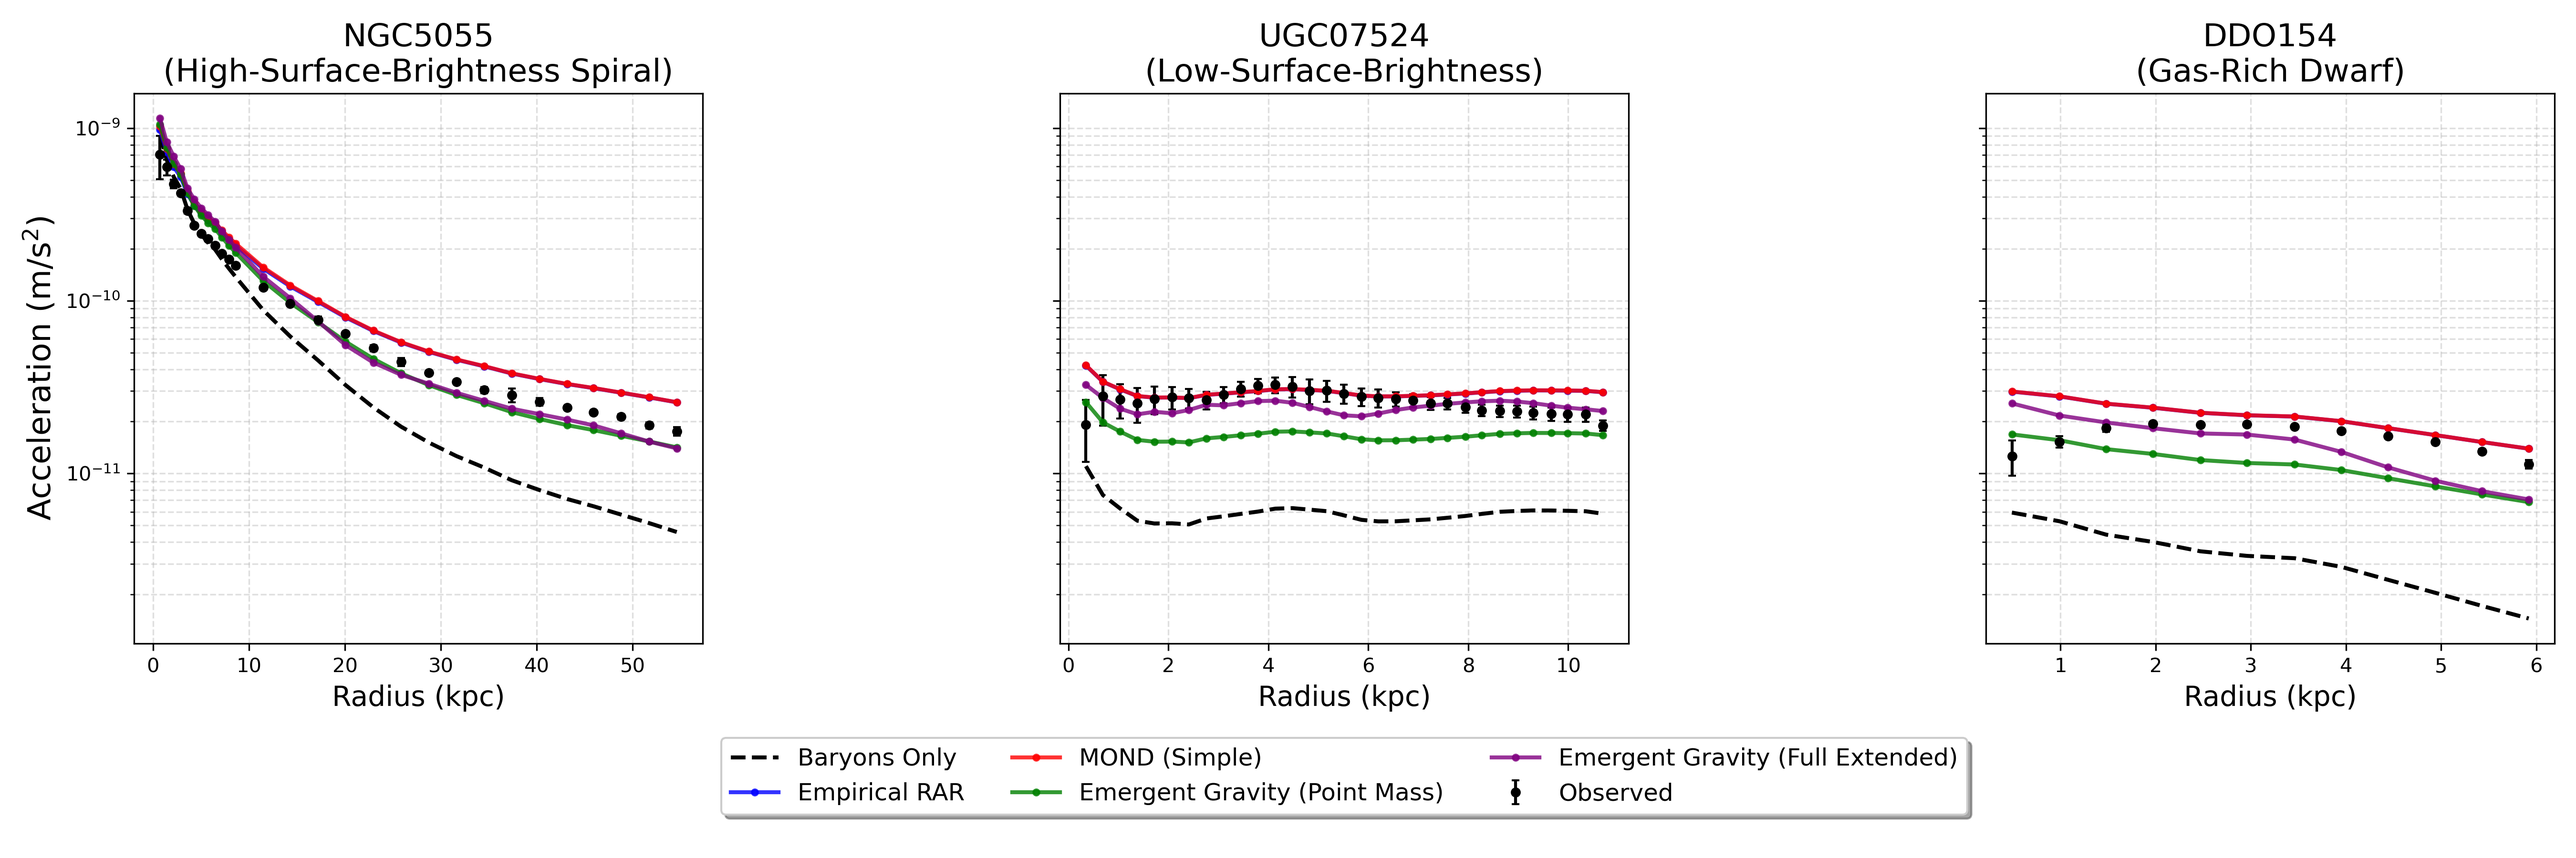
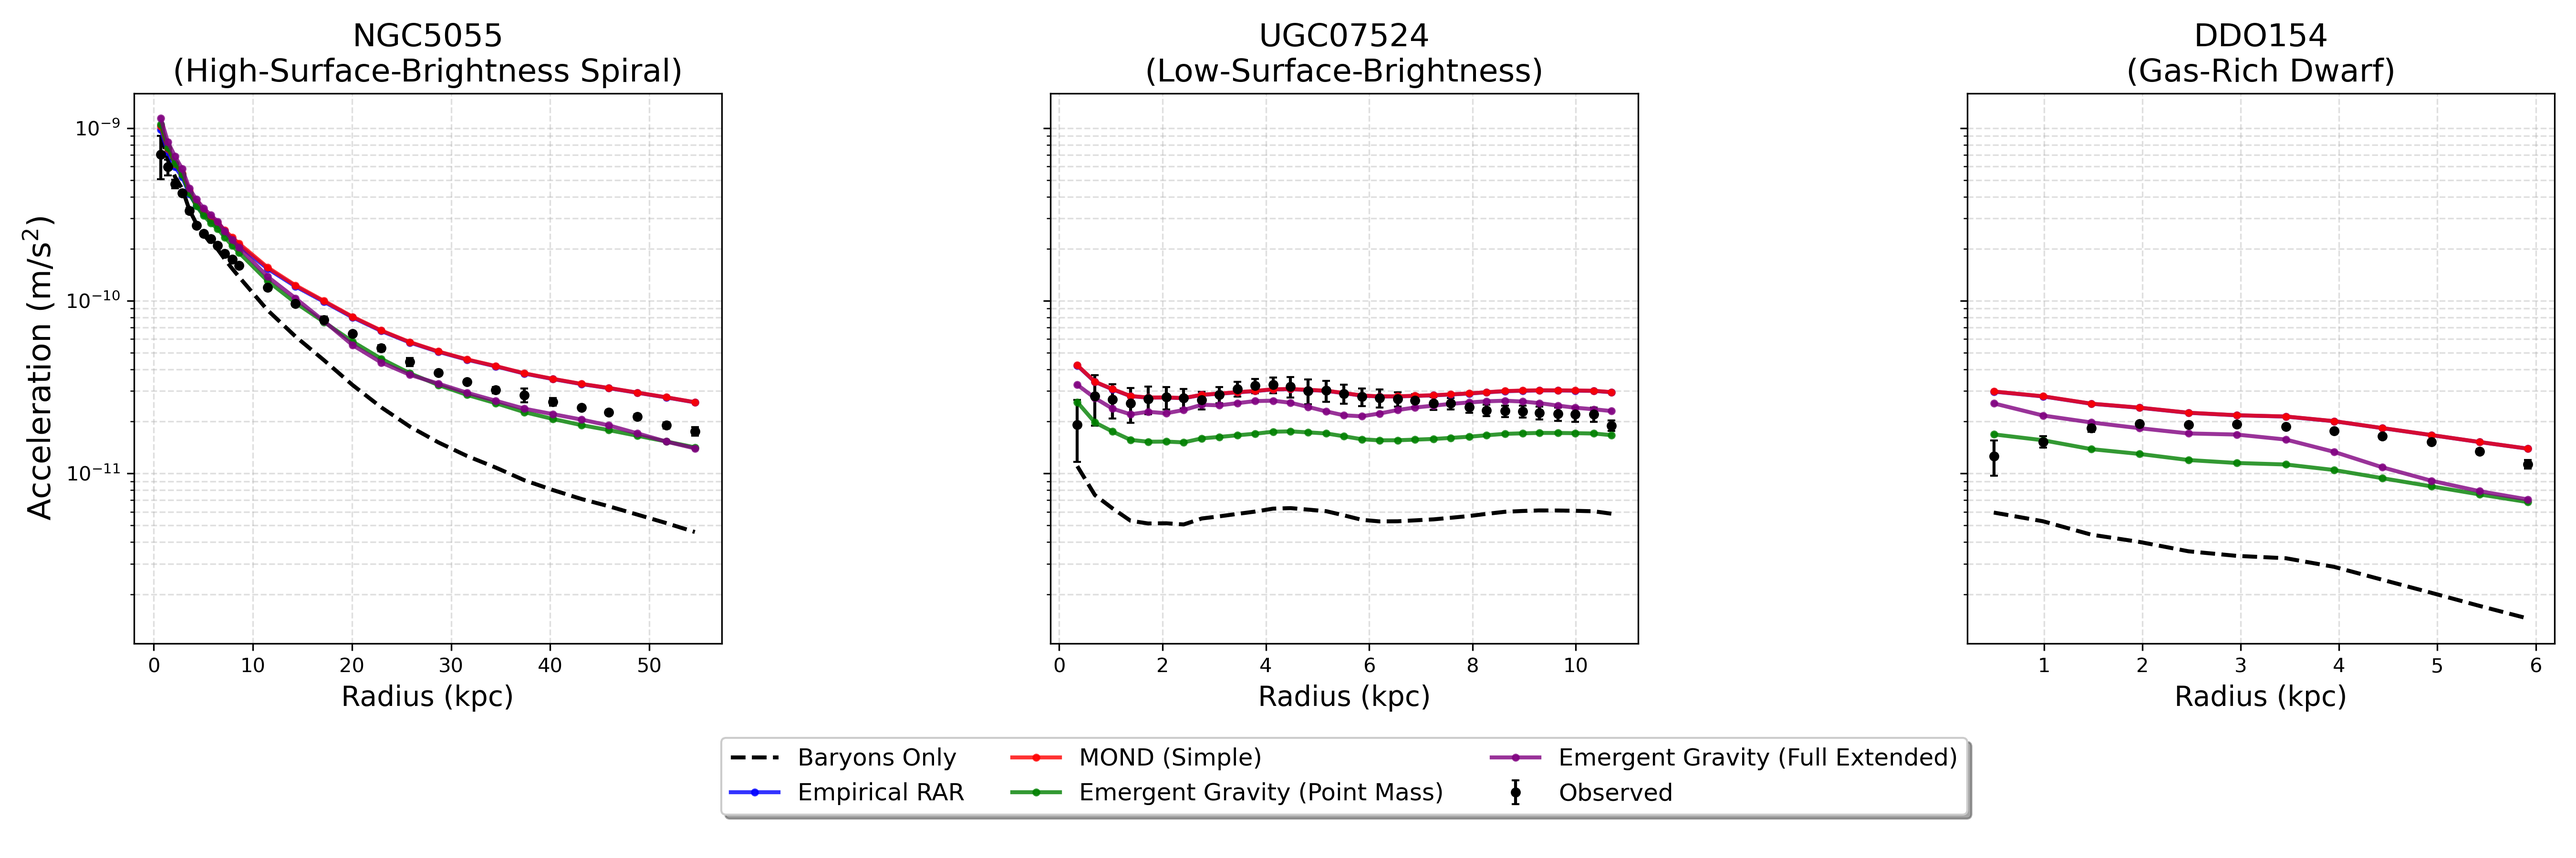
readme added too

diff --git a/emergent-gravity-sparc/scripts/03_diverse_galaxies.py b/emergent-gravity-sparc/scripts/03_diverse_galaxies.py
@@ -1,11 +1,10 @@
 import os
 import sys
 import pandas as pd
-
+import matplotlib.pyplot as plt
 script_dir = os.path.dirname(os.path.abspath(__file__))
 project_root = os.path.abspath(os.path.join(script_dir, '..'))
 sys.path.append(project_root)
-
 from src.physics import (model_empirical_rar, model_mond_simple, 
                          model_emergent_gravity_point_mass, model_emergent_gravity_full)
 from src.plotting import plot_diverse_galaxies
@@ -43,7 +42,16 @@ def main():
         })
         
     save_path = os.path.join(project_root, "results", "figures", "02_diverse_galaxies_comparison.png")
-    plot_diverse_galaxies(galaxy_data_list, save_path=save_path)
+    
+    plt.rcParams['figure.figsize'] = [18, 6]
+
+    fig, axes = plot_diverse_galaxies(galaxy_data_list, save_path=None)
+
+
+    fig.subplots_adjust(wspace=0.05, bottom=0.2)
+
+    fig.savefig(save_path, dpi=150, bbox_inches='tight')
+    print(f"Saved figure to {save_path}")
 
 if __name__ == "__main__":
     main()

diff --git a/readme.md b/readme.md
@@ -1,0 +1,135 @@
+# Testing Emergent Gravity: A SPARC Dataset Pipeline
+
+[![License](https://img.shields.io/badge/License-See_File-blue.svg)](LICENSE)
+[![Data](https://img.shields.io/badge/Data-SPARC-orange.svg)](http://astroweb.cwru.edu/SPARC/)
+
+This repository contains the complete, automated pipeline developed for my thesis. It is designed to evaluate Erik Verlinde's **Emergent Gravity (EG)** alongside **Modified Newtonian Dynamics (MOND)** and standard **Navarro-Frenk-White (NFW)** Dark Matter halos.
+
+Using high-quality, near-infrared galaxy rotation curve data from the **SPARC (Spitzer Photometry and Accurate Rotation Curves)** dataset, this pipeline executes a sequence of physical and statistical stress tests—evaluating everything from the universality of the acceleration scale ($a_0$) to the physical viability of implied mass distributions.
+
+---
+
+## 🔬 Scientific Highlights
+
+Based on the aggregate analysis of the SPARC dataset, this pipeline demonstrates several diagnostic findings regarding the viability of these gravitational models:
+
+* **The "Phantom Density" Problem (Negative Mass):** A fundamental physical viability check calculates the implied "phantom dark matter" density required by EG. The pipeline isolates genuine physical failures (e.g., NGC4013) where EG requires an unphysical **negative mass density** to match observed kinematics.
+* **Failure of $a_0$ Universality:** While MOND successfully maintains a globally flat, universal $a_0$ target, Emergent Gravity's implied local acceleration scale systematically drifts and curves upward as a function of radius.
+* **Kinematic Peak Misalignment:** MOND accurately predicts the spatial center of maximum rotation velocity $V(r)$. EG systematically pushes the predicted velocity peak too far outward into the galaxy.
+* **Derivative Artifacts:** EG's residuals are statistically correlated with the localized radial gradient of the baryonic acceleration, suggesting its deviations are partly driven by mathematical artifacts in its derivative formulation.
+
+---
+
+## 🚀 How to Reproduce the Results
+
+The codebase is strictly sequential. Running the numbered scripts in order will take you from raw data ingestion all the way to the final figures and statistical CSVs.
+
+### 1. Prerequisites & Setup
+
+Ensure you have Python 3.8+ installed along with the standard scientific stack.
+
+```bash
+git clone https://github.com/bruhski158/Emergent-Gravity
+cd Emergent-Gravity
+```
+
+### 2. Download the SPARC Data
+
+1. Download the raw SPARC dataset (`Rotmod_LTG.zip`) from the [SPARC Database](http://astroweb.cwru.edu/SPARC/).
+2. Extract the `.dat` files into the following directory structure:
+   `data/raw/Rotmod_LTG/`
+
+### 3. Run the Pipeline
+
+Execute the scripts sequentially from the project root. The pipeline is highly automated.
+
+**Phase 1: Data Processing & Visual Validation**
+
+```bash
+python 01_data_ingestion.py        # Cleans raw .dat files, calculates accelerations, converts to SI
+python 02_reproduce_rar.py         # Reproduces the classic 1:1 RAR scatter plot
+python 03_diverse_galaxies.py      # Plots theoretical models against diverse radial profiles
+```
+
+**Phase 2: Core Analysis & Fitting**
+
+```bash
+python 04_residual_diagnostics.py  # Computes global residuals across all valid data points
+python 05_mass_to_light_scan.py    # Explores theoretical sensitivity to stellar M/L ratios
+python 06_inner_vs_outer.py        # Splits residual performance across the a_0 boundary
+python 07_dark_matter_fitting.py   # Automated batch fitting for NFW Dark Matter halos
+```
+
+**Phase 3: Falsification & Stress Tests**
+
+```bash
+python 08_statistical_correlations.py # Spearman rank tests for unphysical spatial trends
+python 09_optimize_mass_to_light.py   # Differential evolution optimization for M/L bounds
+python 10_mond_vs_eg_universality.py  # Tests the constancy of the acceleration parameter
+python 11_derivative_artifact_test.py # Isolates derivative-driven mathematical artifacts
+python 12_peak_shift_test.py          # Evaluates predictive alignment of velocity peaks
+python 13_phantom_density_test.py     # Calculates EG's effective dark mass density
+python 14_tests.py                    # Cross-references failures against SPARC Q-flags
+```
+
+All generated CSV tables and high-resolution figures will be saved automatically to the `results/tables/` and `results/figures/` directories.
+
+---
+
+## 📁 Repository Structure
+
+```text
+├── data/
+│   ├── raw/Rotmod_LTG/         # Raw SPARC .dat files
+│   └── processed/Rotmod_LTG/   # Cleaned, SI-unit CSVs
+├── results/
+│   ├── figures/                # Generated visual plots
+│   └── tables/                 # Statistical summaries and diagnostic CSVs
+├── src/
+│   ├── calculus.py             # Numerical derivatives & Savitzky-Golay filters
+│   ├── io.py                   # Data ingestion and error propagation
+│   ├── physics.py              # Gravitational models (NFW, MOND, EG, RAR)
+│   └── plotting.py             # Visualization tools
+├── CITATION.cff                # Citation information
+├── LICENSE                     # License terms
+├── scripts/
+    └── [01-14]_*.py                # Executable pipeline scripts
+
+```
+
+---
+
+## 📓 Conceptual Notebooks
+
+Alongside the main SPARC pipeline, this repository includes a set of standalone Mathematica notebooks used to generate the background/illustrative figures in the thesis. These notebooks are self-contained theoretical toy models and sanity checks—they don't consume SPARC data and aren't part of the numbered `scripts/` pipeline, but they underpin the theoretical motivation for the analysis.
+
+* **`Random Walk of String bits and numerical verification of the square-root relationship.nb`**
+  Simulates a highly-excited string as a 3D random walk of "string bits" and numerically verifies the holographic scaling relation $R_{rms} \propto \sqrt{M}$. Generates a sample 3D string path plus log-log and linear fits of RMS radius vs. bit number, recovering the expected $\alpha \approx 0.5$ scaling exponent with fitted error bars.
+
+* **`Saturation of Bekenstein Bound.nb`**
+  Plots the Bekenstein entropy bound $S_{Bek} = 2\pi E R$ against the Bekenstein-Hawking black hole entropy $S_{BH} = 4\pi E^2$ to illustrate that a Schwarzschild black hole saturates the bound. Includes a second plot at fixed radius showing sub-black-hole configurations approaching but never exceeding the maximum entropy, demonstrating black holes as maximal-entropy objects.
+
+* **`Scaling of Entropy and Area in a Flat FRW Universe.nb`**
+  Log-log plot comparing volume-scaling entropy ($S \propto \chi_0^3$), area-scaling entropy ($A \propto \chi_0^2$), and their ratio as a function of comoving radius in a flat FRW cosmology—motivating the entropic/holographic scaling arguments underlying Verlinde's Emergent Gravity.
+
+* **`Thermodynamic Quantities.nb`**
+  Computes and plots the standard Hawking temperature, Bekenstein-Hawking entropy, and (negative) heat capacity of a Schwarzschild black hole as functions of mass (in solar masses), using physical constants in SI units. Illustrates that larger black holes are colder, have quadratically larger entropy, and exhibit the characteristic negative heat capacity of black hole thermodynamics.
+
+* **`Toy model: Emergent-Gravity Rotation Curve.nb`**
+  A minimal analytic toy model of a galaxy rotation curve under Emergent Gravity: combines the standard Newtonian acceleration $g_b = GM_b/r^2$ with an EG "dark" contribution $g_d = \sqrt{a_0 g_b}$ to produce a flattened total velocity curve $v_{tot}(r)$, plotted alongside the purely Newtonian prediction $v_N(r)$ for comparison. Serves as the conceptual precursor to the full SPARC-based EG fitting done in the numbered pipeline.
+
+---
+
+## 📜 License
+
+This project is licensed under the terms provided in the [LICENSE](LICENSE) file. Please review it before using or distributing this code.
+
+---
+
+## 📝 Citation
+
+If you use this pipeline, codebase, or the results generated herein for your research, please cite this repository/thesis directly. A citation file (`CITATION.cff`) is included in the root of this repository for your convenience.
+
+Additionally, this project relies on the SPARC database. **Any use of this data must also cite the original SPARC publication:**
+
+> Lelli, F., McGaugh, S. S., & Schombert, J. M. (2016). *SPARC: Mass Models for 175 Disk Galaxies with Spitzer Photometry and Accurate Rotation Curves*. The Astronomical Journal, 152(6), 157. [arXiv:1606.09251](https://arxiv.org/abs/1606.09251)
